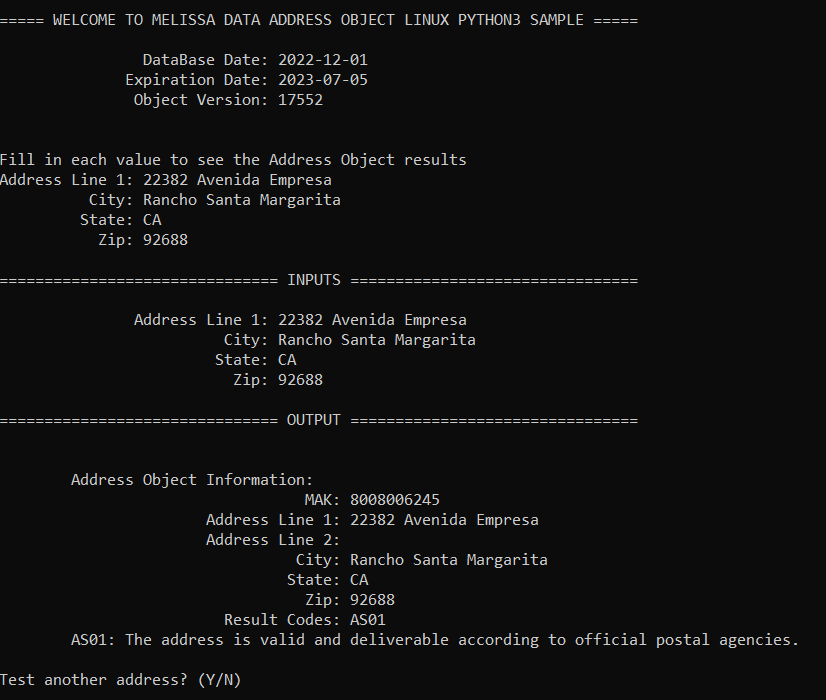
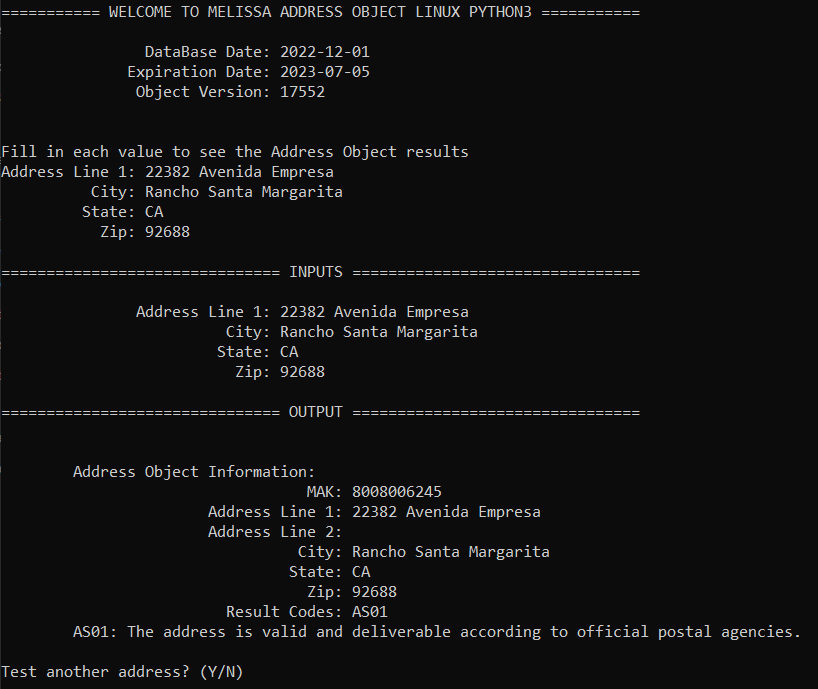
Commit Python3 code for Address Object with release notes

diff --git a/MelissaAddressObjectLinuxPython3/MelissaAddressObjectLinuxPython3.py b/MelissaAddressObjectLinuxPython3/MelissaAddressObjectLinuxPython3.py
@@ -48,7 +48,7 @@ class AddressObject:
             f"              Expiration Date: {self.md_address_obj.GetLicenseExpirationDate()}")
 
         """
-        This number should match with file properties of the Melissa Data Object binary file.
+        This number should match with file properties of the Melissa Object binary file.
         If TEST appears with the build number, there may be a license key issue.
         """
         print(
@@ -67,7 +67,7 @@ class AddressObject:
         result_codes = self.md_address_obj.GetResults()
 
         """ 
-        ResultsCodes explain any issues address object has with the object.
+        ResultsCodes explain any issues Address Object has with the object.
         List of result codes for Address object
         https://wiki.melissadata.com/?title=Result_Code_Details#Address_Object
 
@@ -107,7 +107,7 @@ def parse_arguments():
 
 
 def run_as_console(license, test_address, test_city, test_state, test_zip, data_path):
-    print("\n\n===== WELCOME TO MELISSA DATA ADDRESS OBJECT LINUX PYTHON3 SAMPLE =====\n")
+    print("\n\n=========== WELCOME TO MELISSA ADDRESS OBJECT LINUX PYTHON3 ===========\n")
 
     address_object = AddressObject(license, data_path)
 
@@ -186,7 +186,7 @@ def run_as_console(license, test_address, test_city, test_state, test_zip, data_
 
                 print("Invalid Response, please respond 'Y' or 'N'")
 
-    print("\n=========== THANK YOU FOR USING MELISSA DATA PYTHON3 OBJECT ===========\n")
+    print("\n============= THANK YOU FOR USING MELISSA PYTHON3 OBJECT ==============\n")
 
 
 """  MAIN STARTS HERE   """

diff --git a/MelissaAddressObjectLinuxPython3/mdAddr_pythoncode.py b/MelissaAddressObjectLinuxPython3/mdAddr_pythoncode.py
@@ -7,9 +7,9 @@ dir = os.getcwd()
 
 
 if (os.name == 'nt'):
-  lib = ctypes.CDLL(f'{dir}/MelissaDataAddressObjectWindowsPython3Sample/mdAddr.dll')
+  lib = ctypes.CDLL(f'{dir}/MelissaAddressObjectWindowsPython3/mdAddr.dll')
 else:
-  lib = ctypes.CDLL(f'{dir}/MelissaDataAddressObjectLinuxPython3Sample/libmdAddr.so')
+  lib = ctypes.CDLL(f'{dir}/MelissaAddressObjectLinuxPython3/libmdAddr.so')
 
 
 lib.mdAddrCreate.argtypes = []

diff --git a/README.md b/README.md
@@ -1,8 +1,12 @@
-# Melissa Data Address Object Linux Python3 Sample
+# Melissa - Address Object Linux Python3
 
 ## Purpose
 
-This is a sample of the Melissa Data Address Object using Python3
+This code showcases the Melissa Address Object using Python3.
+
+Please feel free to copy or embed this code to your own project. Happy coding!
+
+For the latest Melissa Address Object release notes, please visit: https://releasenotes.melissa.com/on-premise-api/address-object/
 
 The console will ask the user for:
 
@@ -31,7 +35,7 @@ And return
 
 #### libmdAddr.so
 
-This is the c++ code of the Melissa Data Object.
+This is the c++ code of the Melissa Object.
 
 #### Data File(s)
 - Addr.dbf
@@ -64,23 +68,13 @@ These instructions will get you a copy of the project up and running on your loc
 
 This project is compatible with Python3
 
-#### Install the Python3
+#### Install Python3
 Before starting, make sure that Python3 has been correctly installed on your machine and your environment paths are configured. 
 
 You can download Python here: 
 https://www.python.org/downloads/
 
-To set up your Path correctly to use the python3 command, execute the following steps:
-1) Run Powershell as an administrator 
-2) Execute the command: 
-`New-Item -ItemType SymbolicLink -Path "Link" -Target "Target"`
-
-    where "Target" is the path to py.exe (by default this should be "C:\Windows\py.exe")\
-    and "Link" is the path to py.exe, but "py.exe" is replaced with "python3.exe"\
-    For Example:\
-    `New-Item -ItemType SymbolicLink -Path "C:\Windows\python3.exe" -Target "C:\Windows\py.exe"`
-
-If you are unsure, you can check by opening a command prompt window and typing the following:
+You can check that your environment is set up correctly by opening a command prompt window and typing the following:
 `python3 --version`
 
 ![alt text](/screenshots/python_version.PNG)
@@ -124,26 +118,26 @@ Melissa Updater is a CLI application allowing the user to update their Melissa a
 
 #### Different ways to get data file(s)
 1.  Using Melissa Updater
-	- It will handle all of the data download/path and dll(s) for you. 
-2.  If you already have the latest DQS Release (ZIP), you can find the data file(s) and dll(s) in there
-	- Use the location of where you copied/installed the data and update the "$DataPath" variable in the powershell script.
-	- Copy all the dll(s) mentioned above into the `MelissaDataAddressObjectLinuxPython3Sample` project folder.
+	- It will handle all of the data download/path and .so file(s) for you. 
+2.  If you already have the latest DQS Release (ZIP), you can find the data file(s) and .so file(s) in there
+	- Use the location of where you copied/installed the data and update the "DataPath" variable in the bash script.
+	- Copy all the .so file(s) mentioned above into the `MelissaAddressObjectLinuxPython3` project folder.
 	
 ----------------------------------------
 ### Change Bash Script Permissions
 To be able to run the bash script, you must first make it an executable using the command:
 
-`chmod +x MelissaDataAddressObjectLinuxPython3Sample.sh`
+`chmod +x MelissaAddressObjectLinuxPython3.sh`
 
 Then you need to add permissions to the build directory with the command:
 
-`chmod +rwx MelissaDataAddressObjectLinuxPython3Sample`
+`chmod +rwx MelissaAddressObjectLinuxPython3`
 
 As an indicator, the filename will change colors once it becomes an executable.
 
-You may also need to alter permissions for the python files. To do this navigate into the MelissaDataAddressObjectLinuxPython3Sample directory and run these commands: \
-`chmod +rx MelissaDataAddressObjectLinuxPython3Sample/MelissaDataAddressObjectLinuxPython3Sample.py` \
-`chmod +rx MelissaDataAddressObjectLinuxPython3Sample/mdAddr_pythoncode.py`
+You may also need to alter permissions for the python files. To do this navigate into the MelissaAddressObjectLinuxPython3 directory and run these commands: \
+`chmod +rx MelissaAddressObjectLinuxPython3/MelissaAddressObjectLinuxPython3.py` \
+`chmod +rx MelissaAddressObjectLinuxPython3/mdAddr_pythoncode.py`
 
 ## Run Bash Script
 
@@ -155,18 +149,18 @@ Parameters:
  	
   These are convenient when you want to get results for a specific address in one run instead of testing multiple addresses in interactive mode.  
 
-- -l or --license (optional): a license string to test the address object
+- -l or --license (optional): a license string to test the Address Object
 
 - -q or --quiet (optional): add to the command if you do not want to get any console output from the Melissa Updater
 - Interactive 
 
 	The script will prompt the user for an address, city, state, and zip, then use the provided inputs to test Address Object. For example:
 	```
-	$ ./MelissaDataAddressObjectLinuxPython3Sample.sh
+	$ ./MelissaAddressObjectLinuxPython3.sh
 	```
     For quiet mode:
     ```
-    $ ./MelissaDataAddressObjectLinuxPython3Sample.sh --quiet
+    $ ./MelissaAddressObjectLinuxPython3.sh -quiet
     ```
 - Command Line 
 
@@ -174,20 +168,20 @@ Parameters:
 
     With all parameters:
     ```
-    $ ./MelissaDataAddressObjectLinuxPython3Sample.sh --address "22382 Avenida Empresa" --city "Rancho Santa Margarita" --state "CA" --zip "92688"
-    $ ./MelissaDataAddressObjectLinuxPython3Sample.sh --address "22382 Avenida Empresa" --city "Rancho Santa Margarita" --state "CA" --zip "92688" --license "<your_license_string>"
+    $ ./MelissaAddressObjectLinuxPython3.sh --address "22382 Avenida Empresa" --city "Rancho Santa Margarita" --state "CA" --zip "92688"
+    $ ./MelissaAddressObjectLinuxPython3.sh --address "22382 Avenida Empresa" --city "Rancho Santa Margarita" --state "CA" --zip "92688" --license "<your_license_string>"
     ```
 
     With any known (optional) parameters:
     ```
-    $ ./MelissaDataAddressObjectLinuxPython3Sample.sh --address "22382 Avenida Empresa" --state "CA" 
-    $ ./MelissaDataAddressObjectLinuxPython3Sample.sh --address "22382 Avenida Empresa" --state "CA" --license "<your_license_string>"
+    $ ./MelissaAddressObjectLinuxPython3.sh --address "22382 Avenida Empresa" --state "CA" 
+    $ ./MelissaAddressObjectLinuxPython3.sh --address "22382 Avenida Empresa" --state "CA" --license "<your_license_string>"
     ```
 
     For quiet mode:
     ```
-    $ ./MelissaDataAddressObjectLinuxPython3Sample.sh --address "22382 Avenida Empresa" --city "Rancho Santa Margarita" --state "CA" --zip "92688" --quiet
-    $ ./MelissaDataAddressObjectLinuxPython3Sample.sh --address "22382 Avenida Empresa" --city "Rancho Santa Margarita" --state "CA" --zip "92688" --license "<your_license_string>" --quiet
+    $ ./MelissaAddressObjectLinuxPython3.sh --address "22382 Avenida Empresa" --city "Rancho Santa Margarita" --state "CA" --zip "92688" --quiet
+    $ ./MelissaAddressObjectLinuxPython3.sh --address "22382 Avenida Empresa" --city "Rancho Santa Margarita" --state "CA" --zip "92688" --license "<your_license_string>" --quiet
     ```
 This is the expected output of a successful setup for interactive mode:
 
@@ -196,22 +190,22 @@ This is the expected output of a successful setup for interactive mode:
     
 ## Troubleshooting
 
-Troubleshooting for errors found while running your sample program.
+Troubleshooting for errors found while running your program.
 
 ### Errors:
 
 | Error      | Description |
 | ----------- | ----------- |
 | ErrorRequiredFileNotFound      | Program is missing a required file. Please check your Data folder and refer to the list of required files above. If you are unable to obtain all required files through the Melissa Updater, please contact technical support below. |
-| ErrorDatabaseExpired   | .db file(s) are expired. Please make sure you are downloading and using the latest release version. (If using the Melissa Updater, check powershell script for 'RELEASE_VERSION = {version}'  and change the release version if you are using an out of date release).     |
-| ErrorFoundOldFile   | File(s) are out of date. Please make sure you are downloading and using the latest release version. (If using the Melissa Updater, check powershell script for 'RELEASE_VERSION = {version}'  and change the release version if you are using an out of date release).    |
+| ErrorDatabaseExpired   | .db file(s) are expired. Please make sure you are downloading and using the latest release version. (If using the Melissa Updater, check bash script for 'RELEASE_VERSION = {version}'  and change the release version if you are using an out of date release).     |
+| ErrorFoundOldFile   | File(s) are out of date. Please make sure you are downloading and using the latest release version. (If using the Melissa Updater, check bash script for 'RELEASE_VERSION = {version}'  and change the release version if you are using an out of date release).    |
 | ErrorLicenseExpired   | Expired license string. Please contact technical support below. |
 
 
 ## Contact Us
 
 For free technical support, please call us at 800-MELISSA ext. 4
-(800-635-4772 ext. 4) or email us at tech@MelissaData.com.
+(800-635-4772 ext. 4) or email us at tech@melissa.com.
 
-To purchase this product, contact Melissa Data sales department at
+To purchase this product, contact the Melissa sales department at
 800-MELISSA ext. 3 (800-635-4772 ext. 3).

diff --git a/LICENSE.md b/LICENSE.md
@@ -1,0 +1,21 @@
+MIT License
+
+Copyright (c) Melissa Data Corporation
+
+Permission is hereby granted, free of charge, to any person obtaining a copy
+of this software and associated documentation files (the "Software"), to deal
+in the Software without restriction, including without limitation the rights
+to use, copy, modify, merge, publish, distribute, sublicense, and/or sell
+copies of the Software, and to permit persons to whom the Software is
+furnished to do so, subject to the following conditions:
+
+The above copyright notice and this permission notice shall be included in all
+copies or substantial portions of the Software.
+
+THE SOFTWARE IS PROVIDED "AS IS", WITHOUT WARRANTY OF ANY KIND, EXPRESS OR
+IMPLIED, INCLUDING BUT NOT LIMITED TO THE WARRANTIES OF MERCHANTABILITY,
+FITNESS FOR A PARTICULAR PURPOSE AND NONINFRINGEMENT. IN NO EVENT SHALL THE
+AUTHORS OR COPYRIGHT HOLDERS BE LIABLE FOR ANY CLAIM, DAMAGES OR OTHER
+LIABILITY, WHETHER IN AN ACTION OF CONTRACT, TORT OR OTHERWISE, ARISING FROM,
+OUT OF OR IN CONNECTION WITH THE SOFTWARE OR THE USE OR OTHER DEALINGS IN THE
+SOFTWARE.
